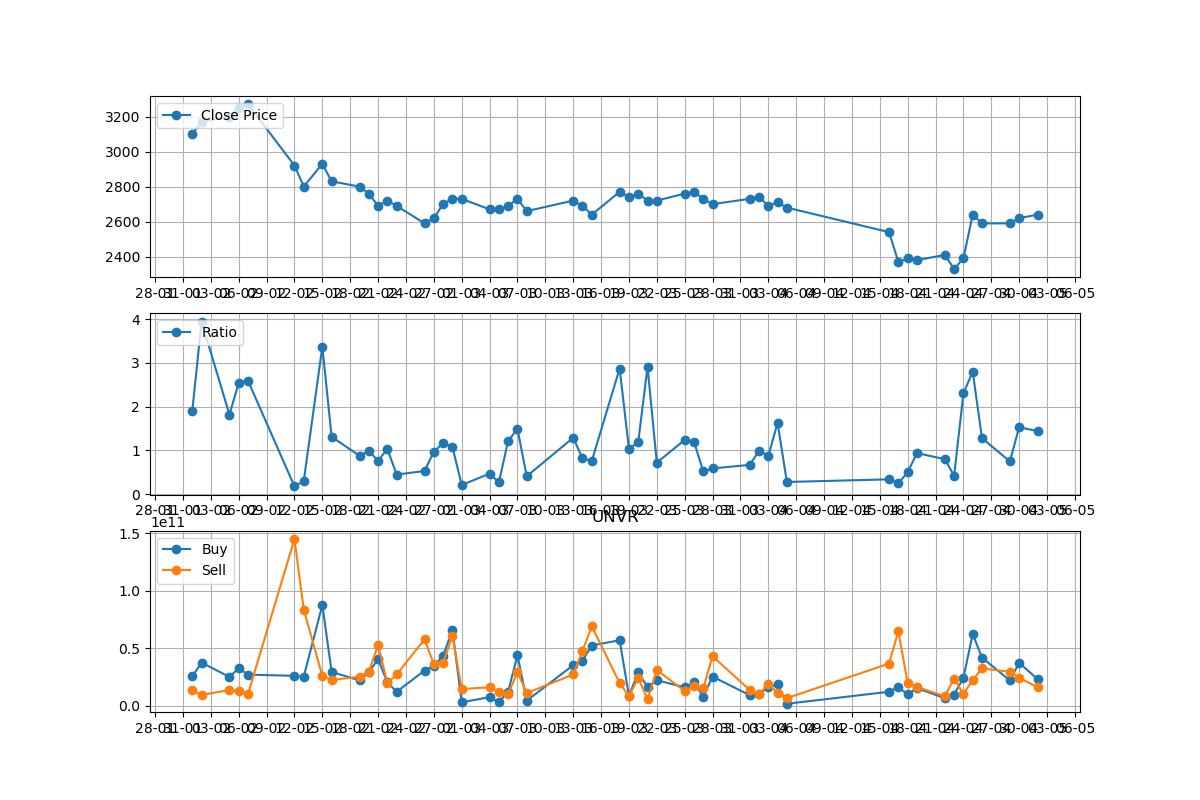
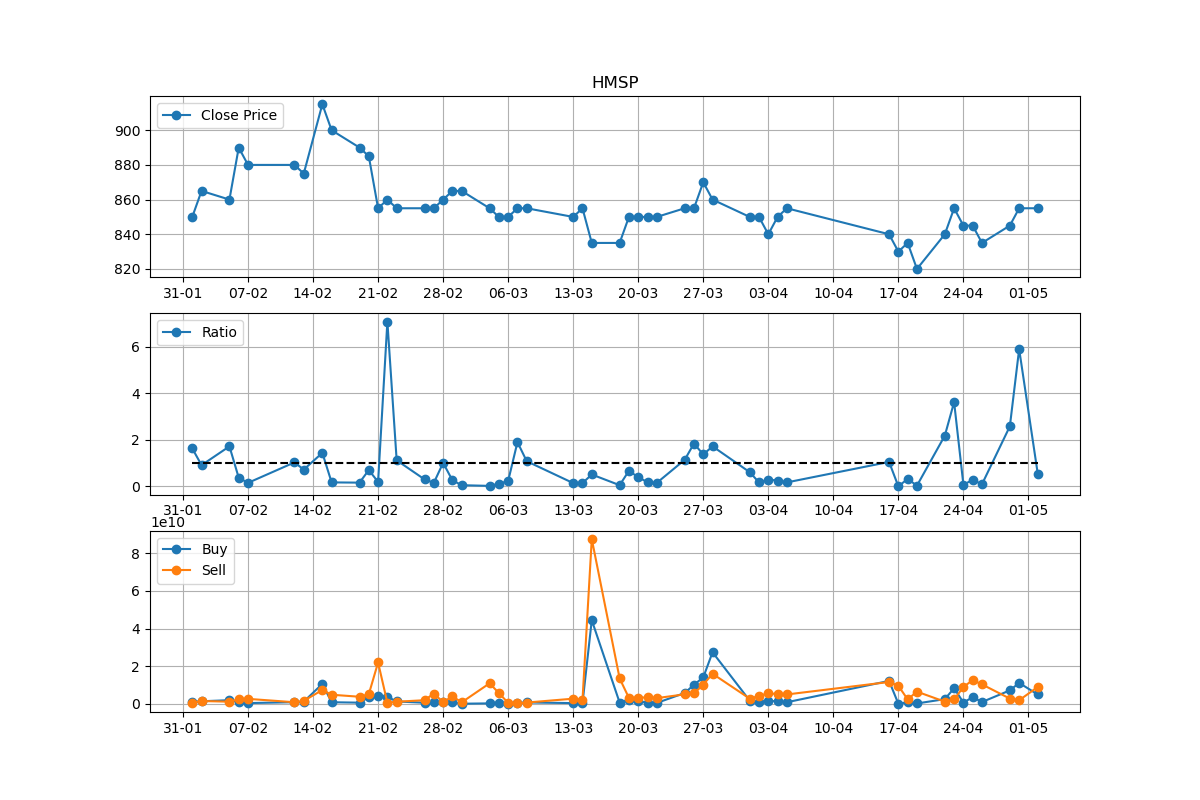
update 3 may
- tambah garis acuan untuk rasio
- coba coba variasi ylimit dan set_ticker tapi masih gagal

diff --git a/website/bacafile.py b/website/bacafile.py
@@ -6,6 +6,7 @@ import sqlite3
 from datetime import datetime
 import matplotlib.pyplot as plt
 import matplotlib.dates as mdates
+import numpy as np
 
 bacafile = Blueprint('bacafile', __name__)
 
@@ -183,7 +184,7 @@ def baca_harga_wajar():
         elif date_input == "" :
             connection = sqlite3.connect('instance/database.db')
             cursor = connection.cursor()
-            query = r"SELECT Buy.EmitenBuy, Buy.BuyVal, Sell.SellVal, Buy.BuyVal - Sell.SellVal AS Balance, ROUND(Buy.BuyVal / Sell.SellVal,2) AS Ratio, harga_closing.Close_Price, harga_wajar.Harga_Wajar, Buy.unix_date FROM Buy INNER JOIN Sell ON Buy.EmitenBuy = Sell.EmitenSell AND Buy.unix_date = Sell.unix_date INNER JOIN harga_closing ON Buy.EmitenBuy = harga_closing.Emiten AND Buy.unix_date = harga_closing.unix_date INNER JOIN harga_wajar ON Buy.EmitenBuy = harga_wajar.Emiten WHERE Buy.unix_date = Sell.unix_date AND Buy.EmitenBuy= ? AND Sell.EmitenSell = ? ORDER BY Buy.unix_date ASC"
+            query = r"SELECT Buy.EmitenBuy, Buy.BuyVal, Sell.SellVal, Buy.BuyVal - Sell.SellVal AS Balance, ROUND(Buy.BuyVal / Sell.SellVal,2) AS Ratio, harga_closing.Close_Price, harga_wajar.Harga_Wajar, Buy.unix_date, Buy.margin FROM Buy INNER JOIN Sell ON Buy.EmitenBuy = Sell.EmitenSell AND Buy.unix_date = Sell.unix_date INNER JOIN harga_closing ON Buy.EmitenBuy = harga_closing.Emiten AND Buy.unix_date = harga_closing.unix_date INNER JOIN harga_wajar ON Buy.EmitenBuy = harga_wajar.Emiten WHERE Buy.unix_date = Sell.unix_date AND Buy.EmitenBuy= ? AND Sell.EmitenSell = ? ORDER BY Buy.unix_date ASC"
             cursor.execute(query, (emiten_input, emiten_input))
             data = cursor.fetchall()
             num_rows = len(data)
@@ -193,6 +194,7 @@ def baca_harga_wajar():
             sell_values = [row[2] for row in data]
             y_values = [row[4] for row in data]
             closing_values = [row[5] for row in data]
+            plot_y = [row[8] for row in data]
 
             title = [row[0] for row in data][0]
 
@@ -200,24 +202,27 @@ def baca_harga_wajar():
             axs[2].plot(dates,buy_values,marker='o')
             axs[2].plot(dates,sell_values,marker='o')
             axs[2].grid(True)
-            axs[2].set_title(title)
             axs[2].legend_drawn_flag = True
             axs[2].legend(['Buy', 'Sell'], loc=2)
-            axs[2].xaxis.set_major_locator(mdates.DayLocator(interval=3))
+            axs[2].xaxis.set_major_locator(mdates.DayLocator(interval=7))
             axs[2].xaxis.set_major_formatter(mdates.DateFormatter('%d-%m'))
 
             axs[1].plot(dates,y_values,marker='o')
+            axs[1].plot(dates,plot_y,linestyle='--', color='k')
+            # axs[1].set_yticks(np.arange(-5, 6, 1))
+            # axs[1].set_ylim(-10,10)
             axs[1].grid(True)
             axs[1].legend_drawn_flag = True
             axs[1].legend(['Ratio'], loc=2)
-            axs[1].xaxis.set_major_locator(mdates.DayLocator(interval=3))
+            axs[1].xaxis.set_major_locator(mdates.DayLocator(interval=7))
             axs[1].xaxis.set_major_formatter(mdates.DateFormatter('%d-%m'))
 
             axs[0].plot(dates,closing_values,marker='o')
             axs[0].grid(True)
+            axs[0].set_title(title)
             axs[0].legend_drawn_flag = True
             axs[0].legend(['Close Price'], loc=2)
-            axs[0].xaxis.set_major_locator(mdates.DayLocator(interval=3))
+            axs[0].xaxis.set_major_locator(mdates.DayLocator(interval=7))
             axs[0].xaxis.set_major_formatter(mdates.DateFormatter('%d-%m'))
            
             plot_file = "website/static/plot.png"
